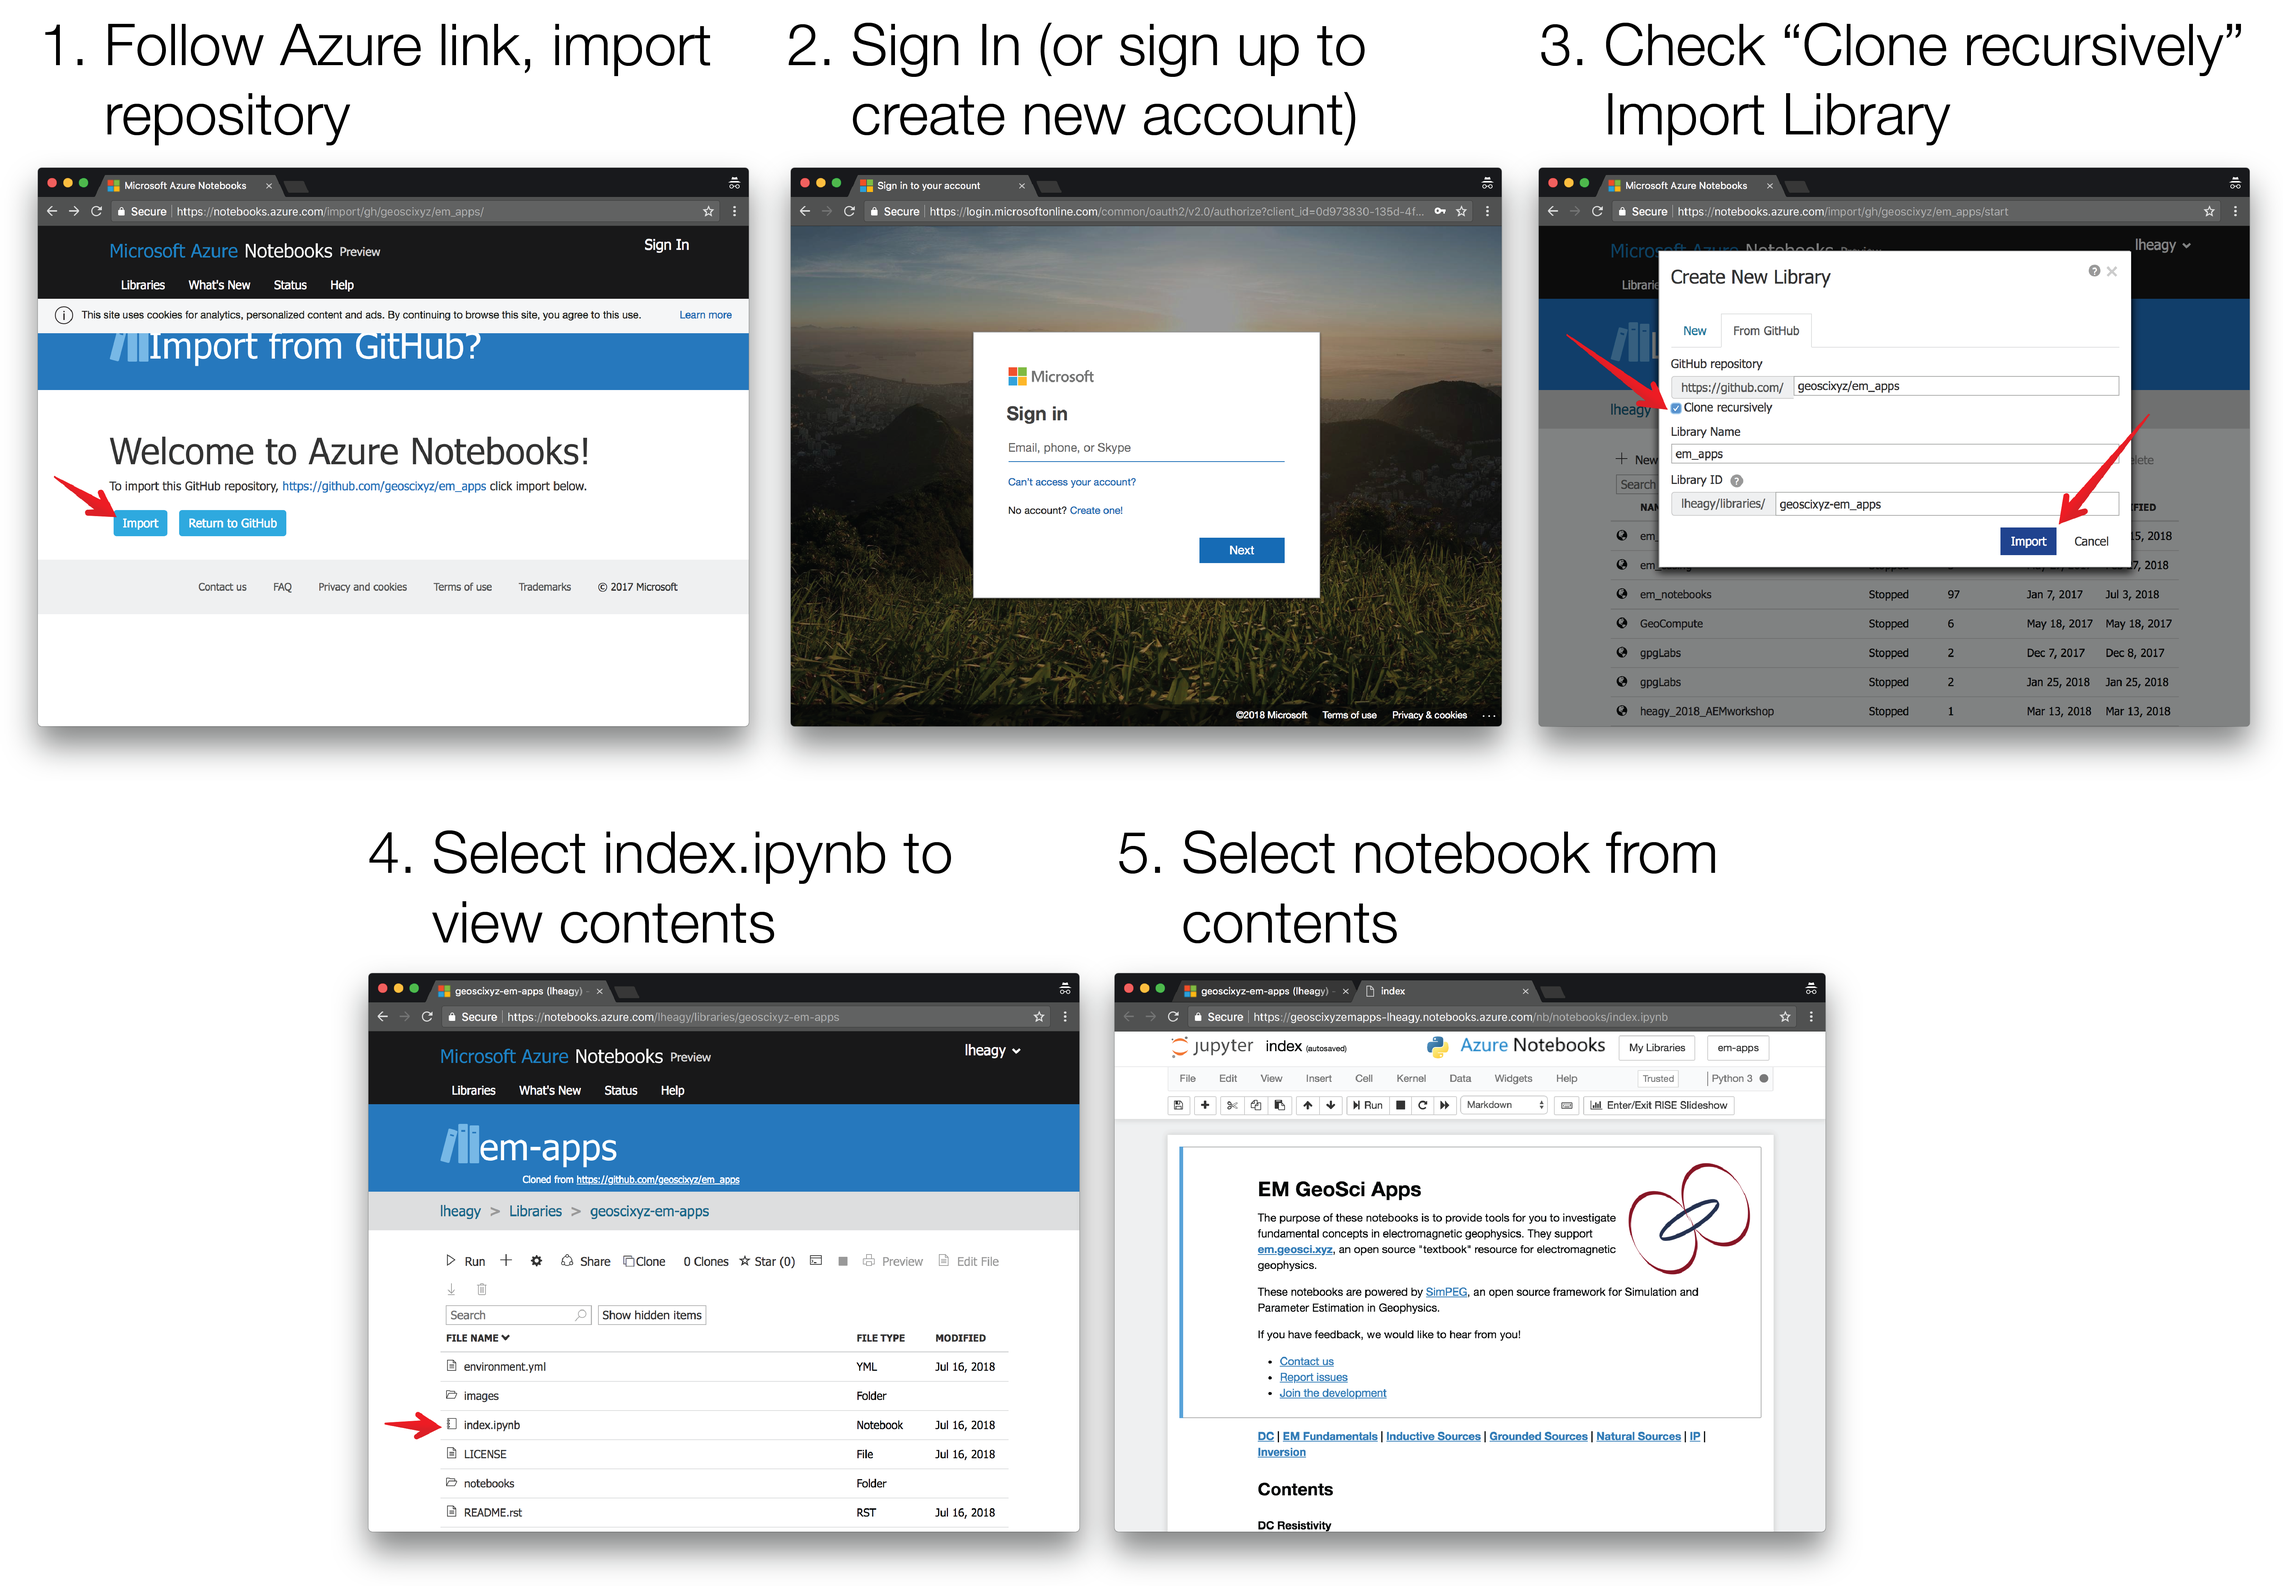
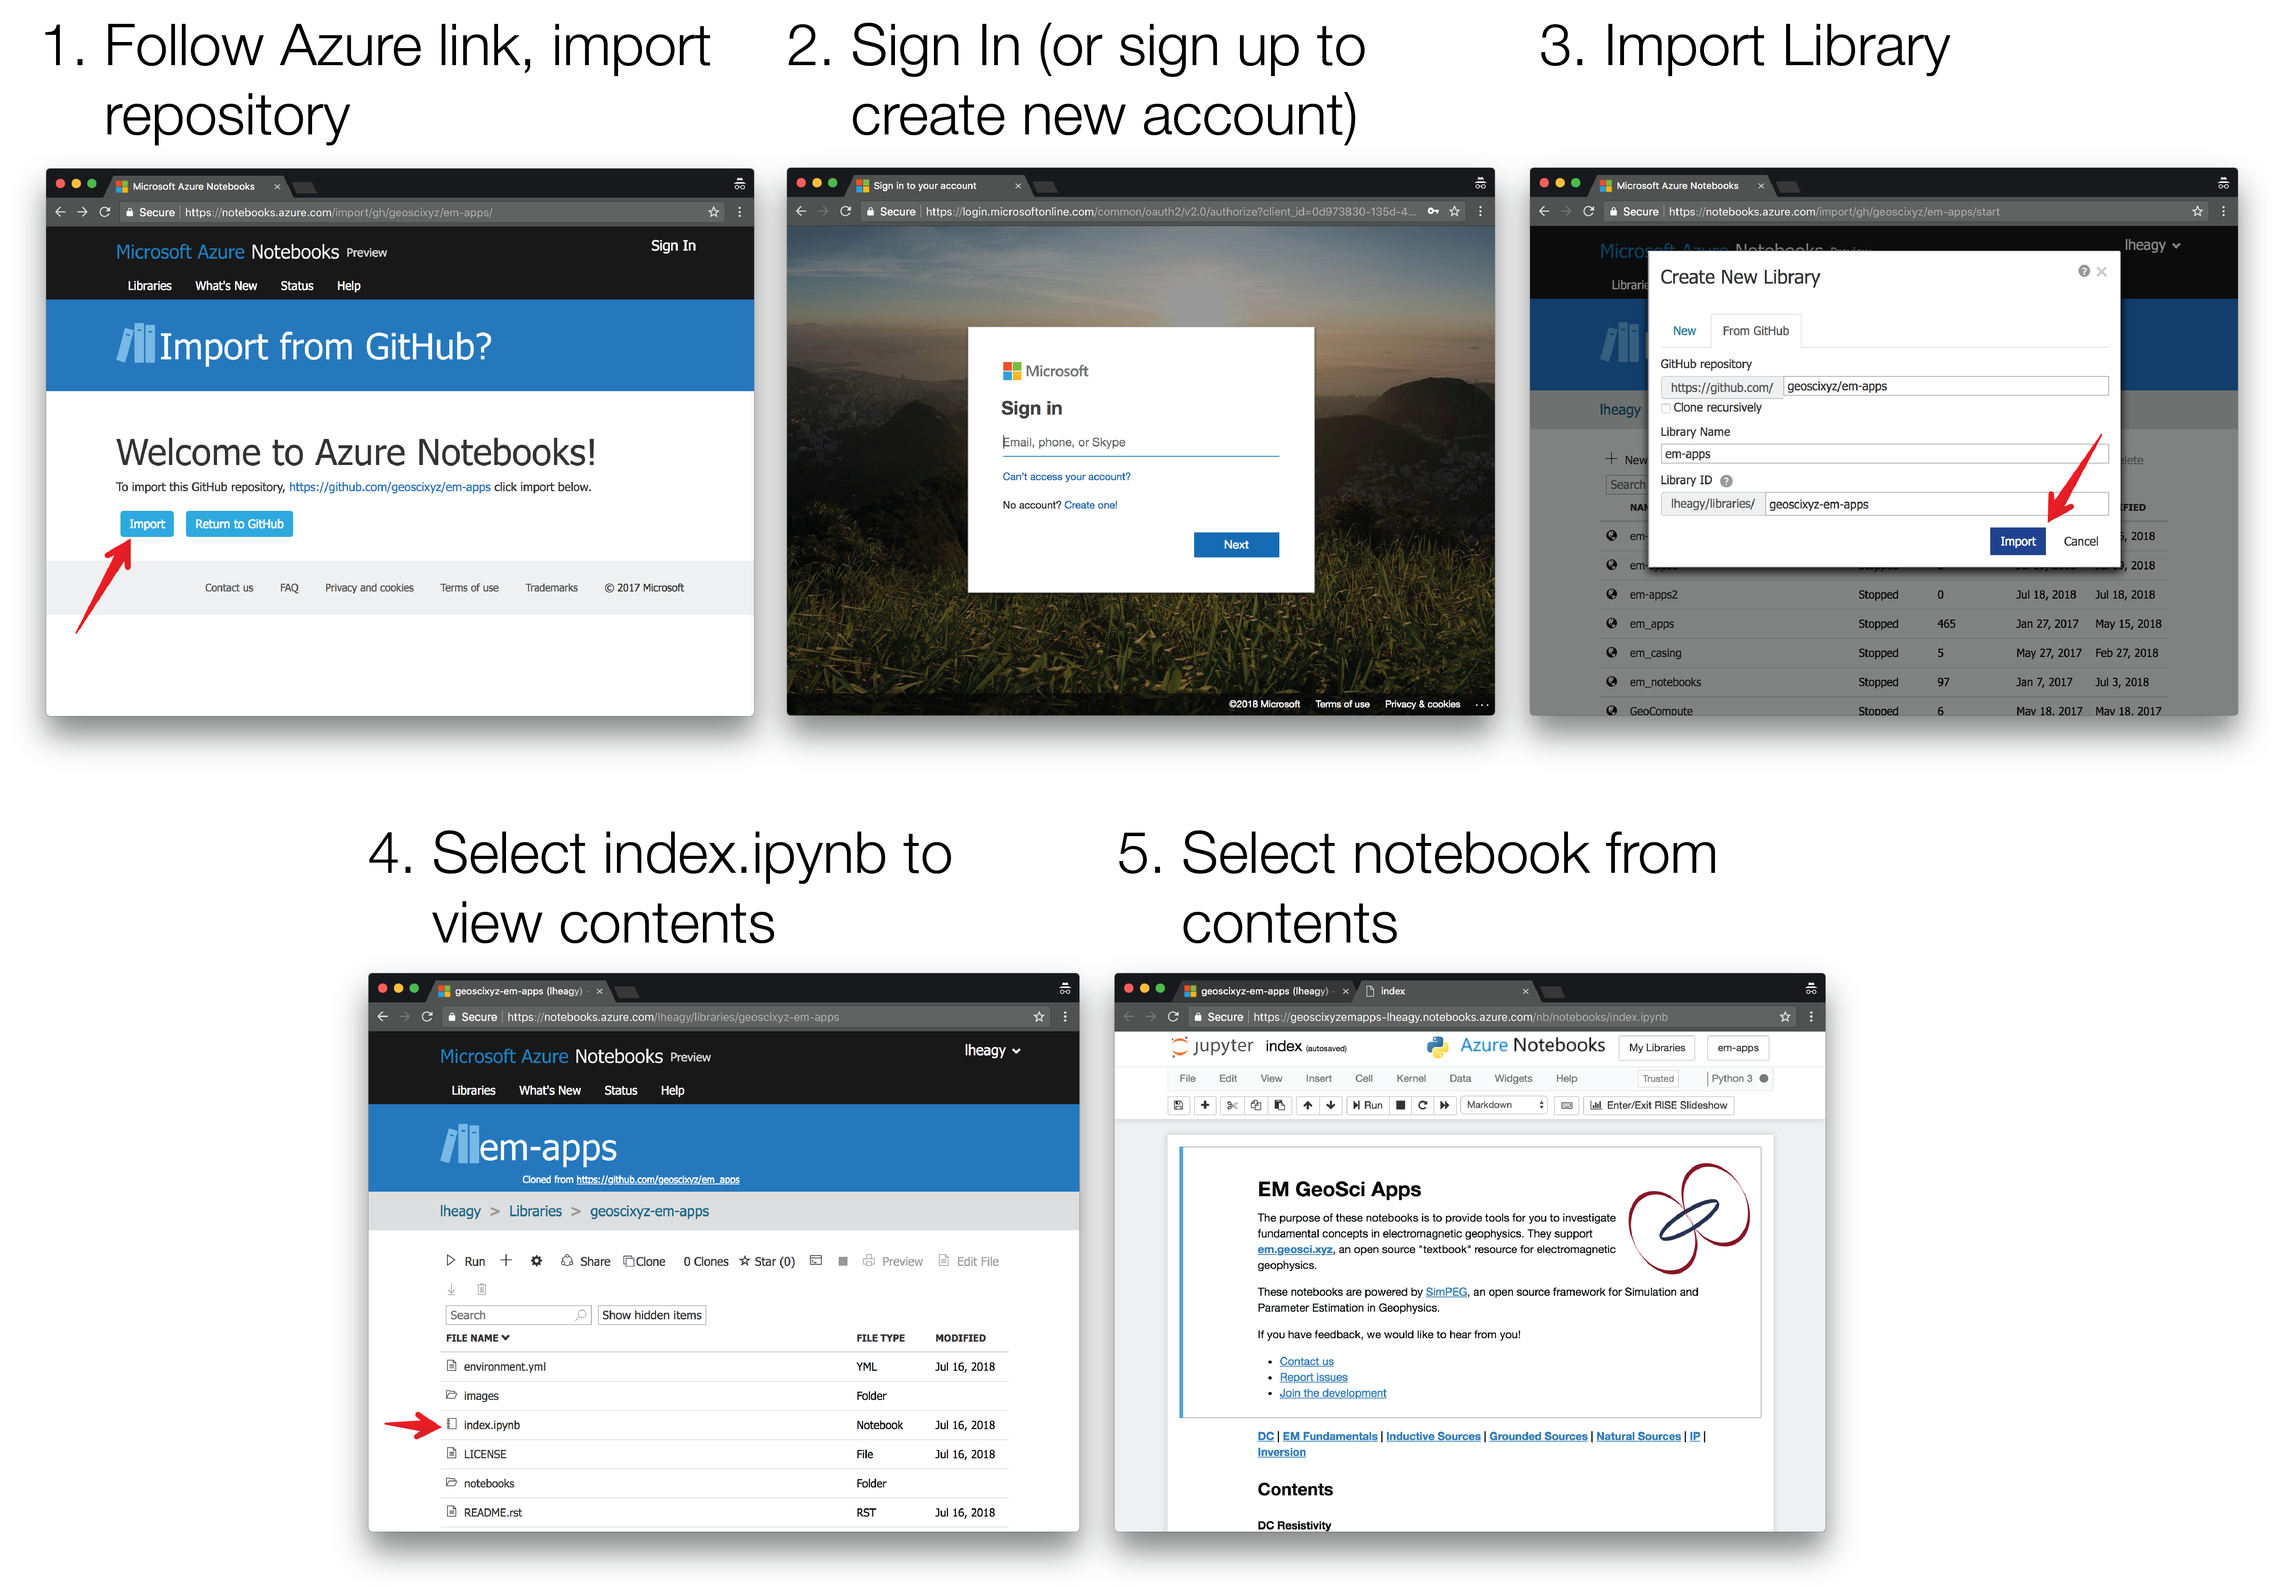
update azure setup description

diff --git a/apps.rst b/apps.rst
@@ -94,7 +94,7 @@ Azure Notebooks
 
 2. Sign in to your microsoft account (or `Create One` if you do not already have an account)
 
-3. Create the new library. Select `Clone recursively` in order to import the required packages. Select Import
+3. Create the new library: Select Import
 
 4. Select :code:`index.ipynb` to view the notebook contents
 
